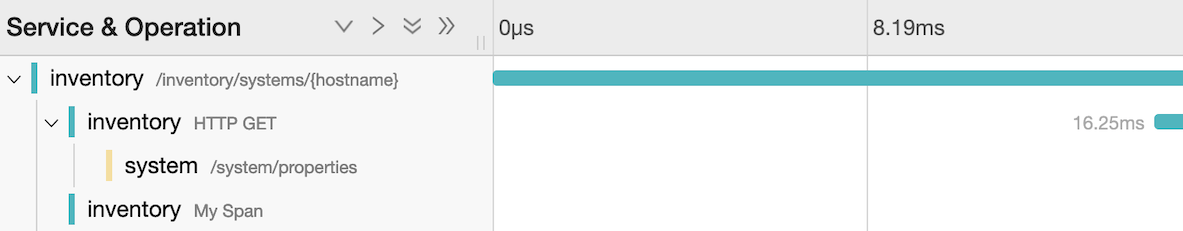
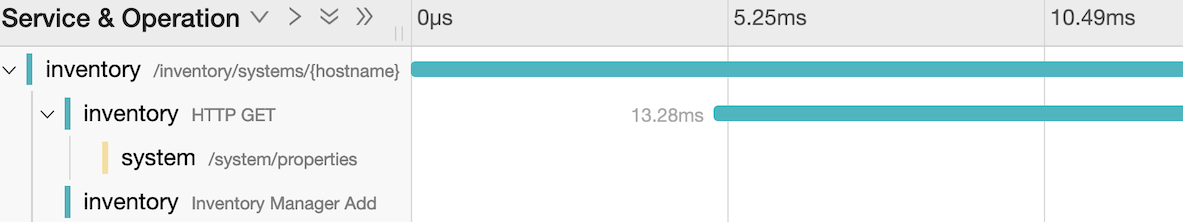
Enhancements to Name and Font

diff --git a/finish/inventory/src/main/java/io/openliberty/guides/inventory/InventoryManager.java b/finish/inventory/src/main/java/io/openliberty/guides/inventory/InventoryManager.java
@@ -44,8 +44,17 @@ public class InventoryManager {
         return properties;
     }
 
+    // tag::listWithSpan[]
+    @WithSpan
+    // end::listWithSpan[]
+    // tag::listMethod[]
+    public InventoryList list() {
+        return new InventoryList(systems);
+    }
+    // end::listMethod[]
+        
     // tag::addWithSpan[]
-    @WithSpan("My Span")
+    @WithSpan("Inventory Manager Add")
     // end::addWithSpan[]
     // tag::addMethod[]
     // tag::spanAttribute[]
@@ -61,15 +70,6 @@ public class InventoryManager {
         }
     }
     // end::addMethod[]
-
-    // tag::listWithSpan[]
-    @WithSpan
-    // end::listWithSpan[]
-    // tag::listMethod[]
-    public InventoryList list() {
-        return new InventoryList(systems);
-    }
-    // end::listMethod[]
 
     int clear() {
         int propertiesClearedCount = systems.size();
